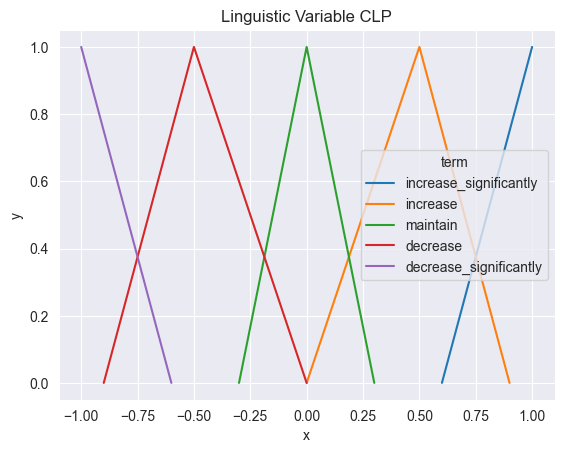
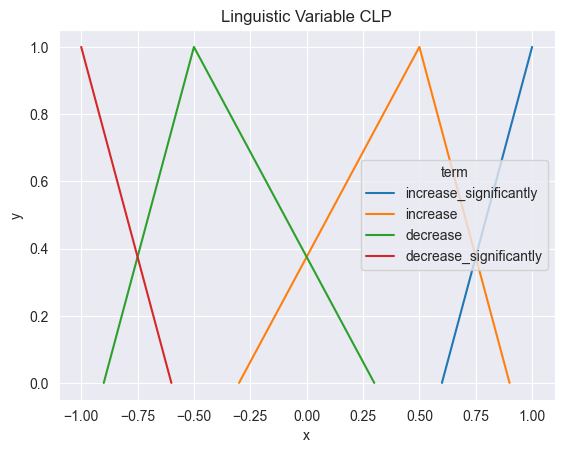
trying to just to alter the system load variable

diff --git a/fuzzy/models/mamdani_triangle_v2.py b/fuzzy/models/mamdani_triangle_v2.py
@@ -4,48 +4,61 @@ from simpful import FuzzySystem, TriangleFuzzySet, AutoTriangle, LinguisticVaria
 FS = FuzzySystem()
 
 # System Load = Max (Memory Usage, Processor Load)
-S1 = TriangleFuzzySet(0,0,0.45, term = "low")  # TODO add an overlap between Fuzzy sets
-S2 = TriangleFuzzySet(0.30,0.45,0.70, term = "moderate")
-S3 = TriangleFuzzySet(0.60,0.7,0.95, term = "high")
-S4 = TriangleFuzzySet(0.75,1,1, term = "critical")
-FS.add_linguistic_variable("SystemLoad", LinguisticVariable([S1,S2,S3,S4], universe_of_discourse=[0,1]))
+#S1 = TriangleFuzzySet(0,0,0.45, term = "low")
+#S2 = TriangleFuzzySet(0.30,0.45,0.70, term = "moderate")
+#S3 = TriangleFuzzySet(0.6,0.8,0.9, term = "high")
+#S4 = TriangleFuzzySet(0.75,1,1, term = "critical")
+#FS.add_linguistic_variable("SystemLoad", LinguisticVariable([S1,S2,S3,S4], universe_of_discourse=[0,1]))
+
+S1 = TriangleFuzzySet(0,0,0.8, term = "low")
+S3 = TriangleFuzzySet(0.5,0.7,0.9, term = "high")
+S4 = TriangleFuzzySet(0.65,1,1, term = "critical")
+FS.add_linguistic_variable("SystemLoad", LinguisticVariable([S1,S3,S4], universe_of_discourse=[0,1]))
+
 
 # Output Throughput [bps]
 L1 = TriangleFuzzySet(0,0,0.4, term = "low")
 L2 = TriangleFuzzySet(0.2,0.45,0.70, term = "moderate")
 L3 = TriangleFuzzySet(0.60,0.75,0.9, term = "high")
 L4 = TriangleFuzzySet(0.75,1,1, term = "very_high")
-FS.add_linguistic_variable("Througthput", LinguisticVariable([L1,L2,L3, L4], universe_of_discourse=[0,1]))
+FS.add_linguistic_variable("OutNetThroughput", LinguisticVariable([L1,L2,L3, L4], universe_of_discourse=[0,1]))
 
 # CLP Variation (output)
-CLP1 = TriangleFuzzySet(0.6,1,1,   term="increase_significantly")
-CLP2 = TriangleFuzzySet(0,0.5,0.9,   term="increase")
-CLP3 = TriangleFuzzySet(-0.3,0,0.3,  term="maintain")
-CLP4 = TriangleFuzzySet(-0.9,-0.5,0, term="decrease")
-CLP5 = TriangleFuzzySet(-1,-1,-0.6, term="decrease_significantly")
-FS.add_linguistic_variable("CLP", LinguisticVariable([CLP1, CLP2, CLP3, CLP4, CLP5], universe_of_discourse=[-1,1]))
+#CLP1 = TriangleFuzzySet(0.6,1,1,   term="increase_significantly")
+#CLP2 = TriangleFuzzySet(0,0.5,0.9,   term="increase")
+#CLP3 = TriangleFuzzySet(-0.3,0,0.3,  term="maintain")
+#CLP4 = TriangleFuzzySet(-0.9,-0.5,0, term="decrease")
+#CLP5 = TriangleFuzzySet(-1,-1,-0.6, term="decrease_significantly")
+#FS.add_linguistic_variable("CLP", LinguisticVariable([CLP1, CLP2, CLP3, CLP4, CLP5], universe_of_discourse=[-1,1]))
 
-FS.add_rules([
-    "IF (SystemLoad IS critical) THEN (CLP IS decrease_significantly)",
-    "IF (SystemLoad IS high) AND (Througthput IS low) THEN (CLP IS mantain)",
-    "IF (SystemLoad IS high) AND (Througthput IS moderate) THEN (CLP IS mantain)",
-    "IF (SystemLoad IS high) AND (Througthput IS high) THEN (CLP IS decrease)",
-    "IF (SystemLoad IS high) AND (Througthput IS very_high) THEN (CLP IS decrease)",
-    "IF (SystemLoad IS moderate) THEN (CLP IS increase)",
-    "IF (SystemLoad IS low) AND (Througthput IS low) THEN (CLP IS increase_significantly)",
-    "IF (SystemLoad IS low) AND (Througthput IS moderate) THEN (CLP IS increase_significantly)",
-    "IF (SystemLoad IS low) AND (Througthput IS high) THEN (CLP IS increase)",
-    "IF (SystemLoad IS low) AND (Througthput IS very_high) THEN (CLP IS increase)",
-])
+CLP1 = TriangleFuzzySet(0.6,1,1,   term="increase_significantly")
+CLP2 = TriangleFuzzySet(-0.3,0.5,0.9,   term="increase")
+#CLP3 = TriangleFuzzySet(-0.3,0,0.3,  term="maintain")
+CLP4 = TriangleFuzzySet(-0.9,-0.5,0.3, term="decrease")
+CLP5 = TriangleFuzzySet(-1,-1,-0.6, term="decrease_significantly")
+FS.add_linguistic_variable("CLP", LinguisticVariable([CLP1, CLP2, CLP4, CLP5], universe_of_discourse=[-1,1]))
 
 #FS.add_rules([
-#
 #    "IF (SystemLoad IS critical) THEN (CLP IS decrease_significantly)",
-#    "IF (SystemLoad IS high) THEN (CLP IS mantain)",
+#    #"IF (SystemLoad IS high) AND (OutNetThroughput IS low) THEN (CLP IS mantain)",
+#    #"IF (SystemLoad IS high) AND (OutNetThroughput IS moderate) THEN (CLP IS mantain)",
+#    #"IF (SystemLoad IS high) AND (OutNetThroughput IS high) THEN (CLP IS decrease)",
+#    #"IF (SystemLoad IS high) AND (OutNetThroughput IS very_high) THEN (CLP IS decrease)",
+#    "IF (SystemLoad IS high) THEN (CLP IS increase)",
 #    "IF (SystemLoad IS moderate) THEN (CLP IS increase)",
-#    "IF (SystemLoad IS low) THEN (CLP IS decrease)",
-#
+#    "IF (SystemLoad IS low) AND (OutNetThroughput IS low) THEN (CLP IS increase_significantly)",
+#    "IF (SystemLoad IS low) AND (OutNetThroughput IS moderate) THEN (CLP IS increase_significantly)",
+#    "IF (SystemLoad IS low) AND (OutNetThroughput IS high) THEN (CLP IS increase)",
+#    "IF (SystemLoad IS low) AND (OutNetThroughput IS very_high) THEN (CLP IS increase)",
 #])
+
+FS.add_rules([
+
+    "IF (SystemLoad IS critical) THEN (CLP IS decrease_significantly)",
+    "IF (SystemLoad IS high) THEN (CLP IS increase)",
+    "IF (SystemLoad IS low) THEN (CLP IS increase_significantly)",
+
+])
 
 if __name__ == '__main__':
     import os

diff --git a/fuzzy/eval_models.py b/fuzzy/eval_models.py
@@ -6,10 +6,13 @@ import pandas as pd
 # import all models
 from fuzzy.models.mamdani_gaussian import FS as FS1
 from fuzzy.models.mamdani_triangle import FS as FS2
+from fuzzy.models.mamdani_triangle_v2 import FS as FS3
+
 
 models = {
-    'mamdani_gaussian': FS1,
-    'mamdani_triangle': FS2,
+    #'mamdani_gaussian': FS1,
+    #'mamdani_triangle': FS2,
+    'mamdani_triangle_v2': FS3,
 }
 
 
@@ -28,6 +31,10 @@ def test_fuzzy_system(df, FS):
         FS.set_variable('V_OutNetThroughput', row['V_OutNetThroughput'])
         FS.set_variable('V_OutBandwidth', row['V_OutBandwidth'])
         FS.set_variable('V_Latency', row['V_Latency'])
+
+        SystemLoad = max(row['MemoryUsage'], row['ProcessorLoad'])
+        FS.set_variable("SystemLoad", SystemLoad)
+
         results.append(FS.inference()['CLP'])
 
     return results

diff --git a/fuzzy/visualization/visualization.py b/fuzzy/visualization/visualization.py
@@ -46,7 +46,7 @@ def plot_memory_processor_clp(FS, save_path=None):
     for i in tqdm(range(M.shape[0])):
         for j in range(M.shape[1]):
             FS.set_variable("SystemLoad", M[i, j])
-            FS.set_variable("Througthput", P[i, j])
+            FS.set_variable("OutNetThroughput", P[i, j])
 
             CLP[i, j] = FS.inference()["CLP"]
 
